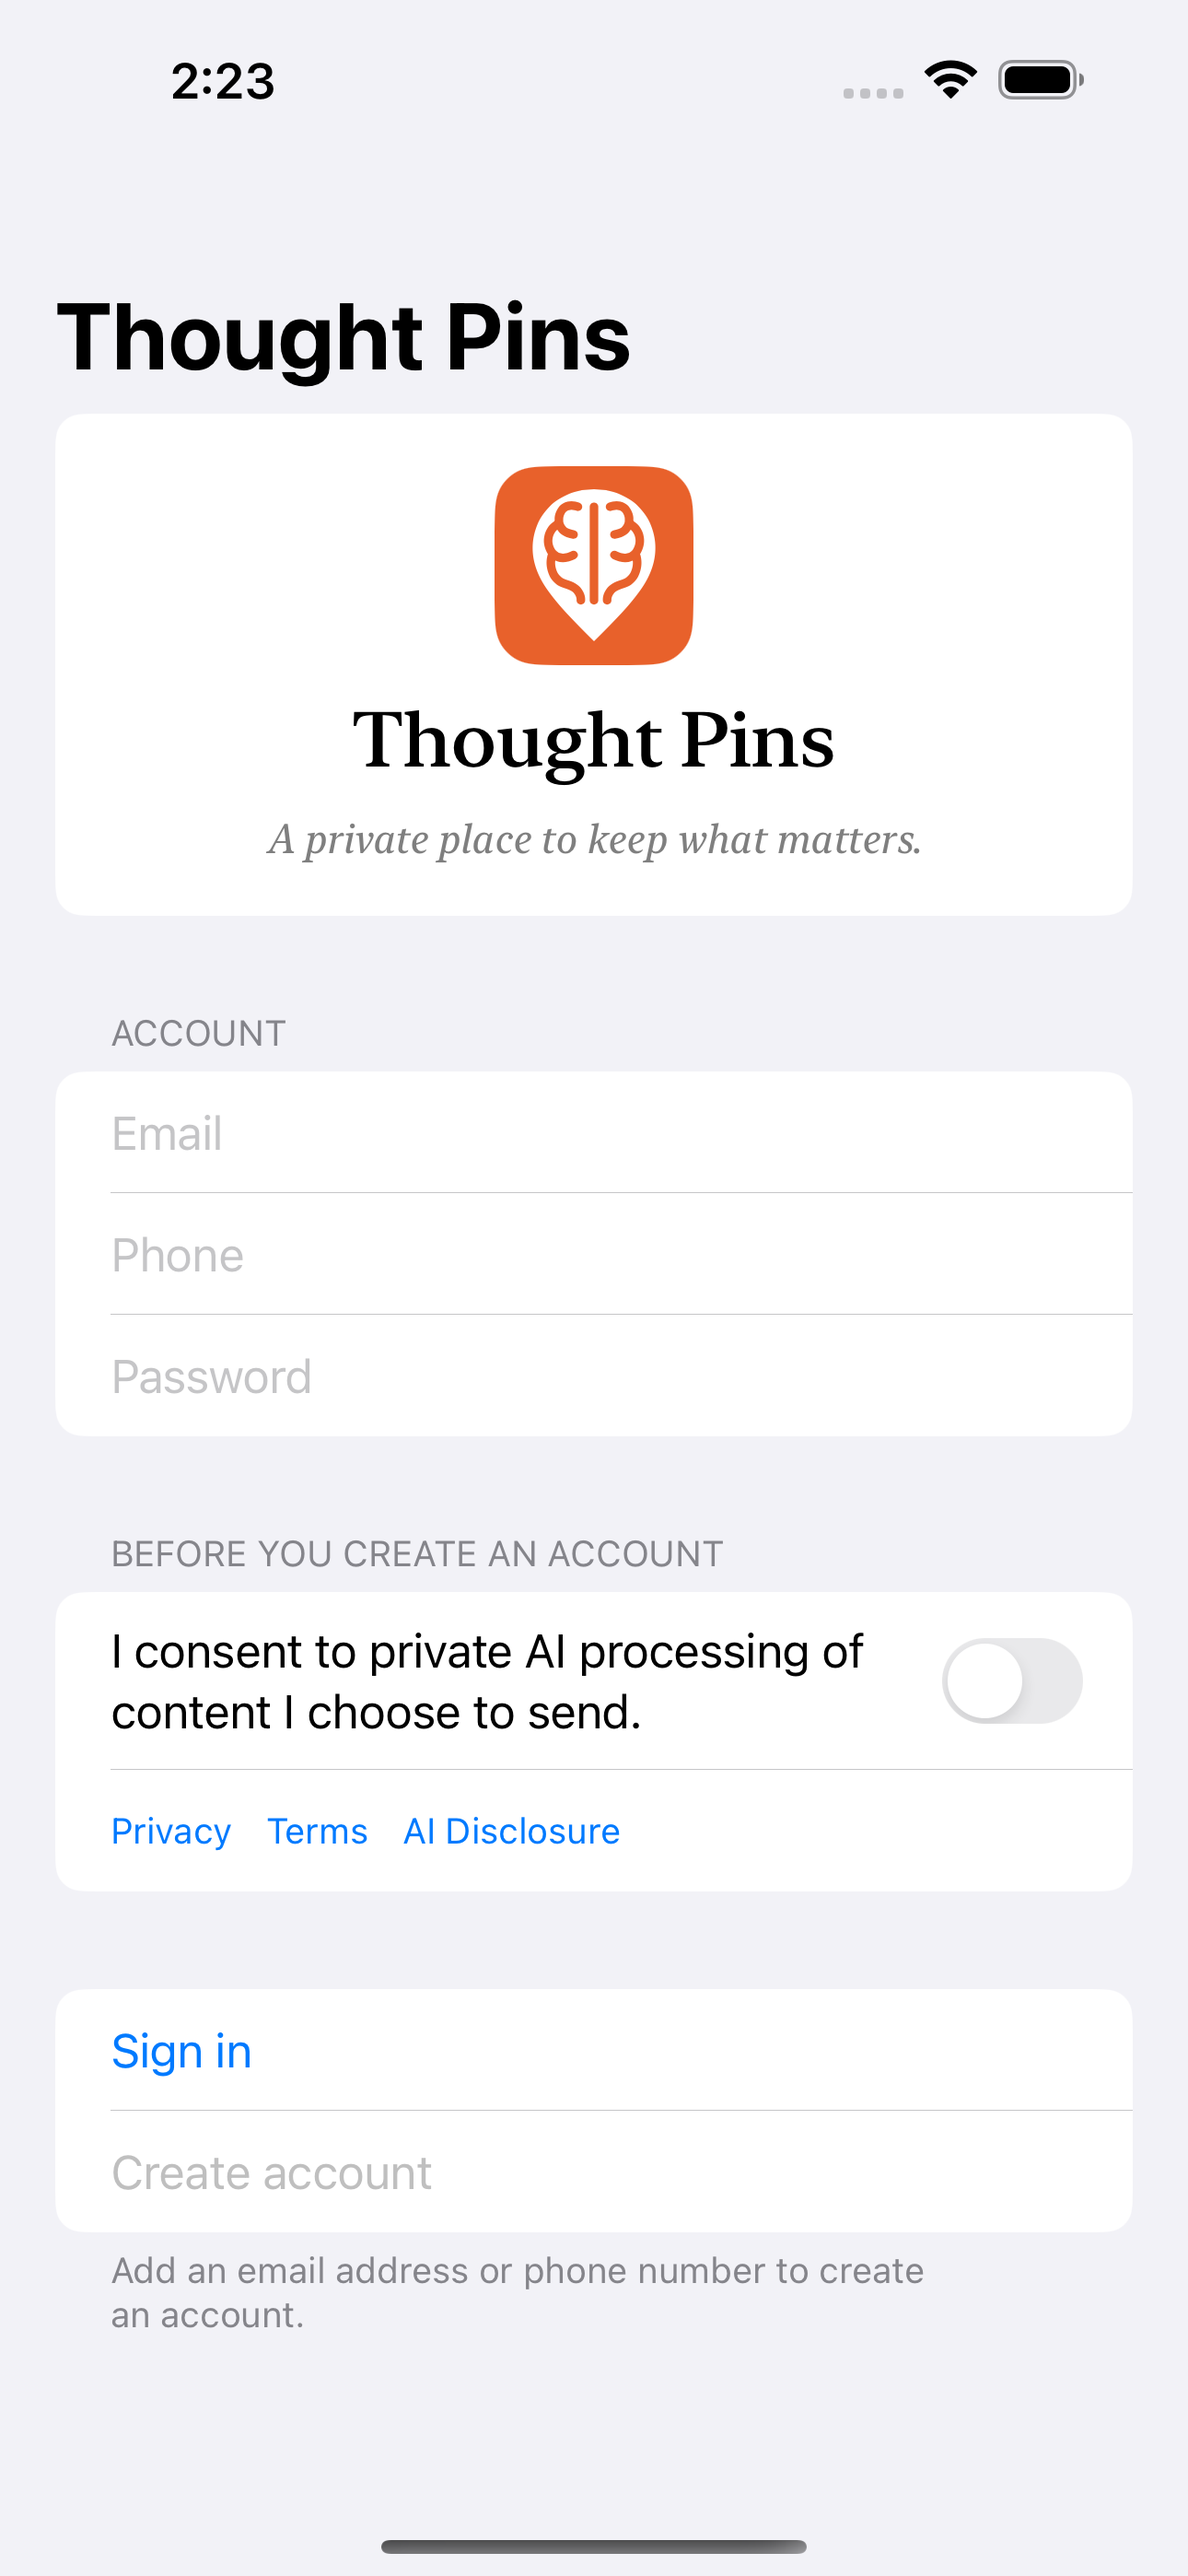
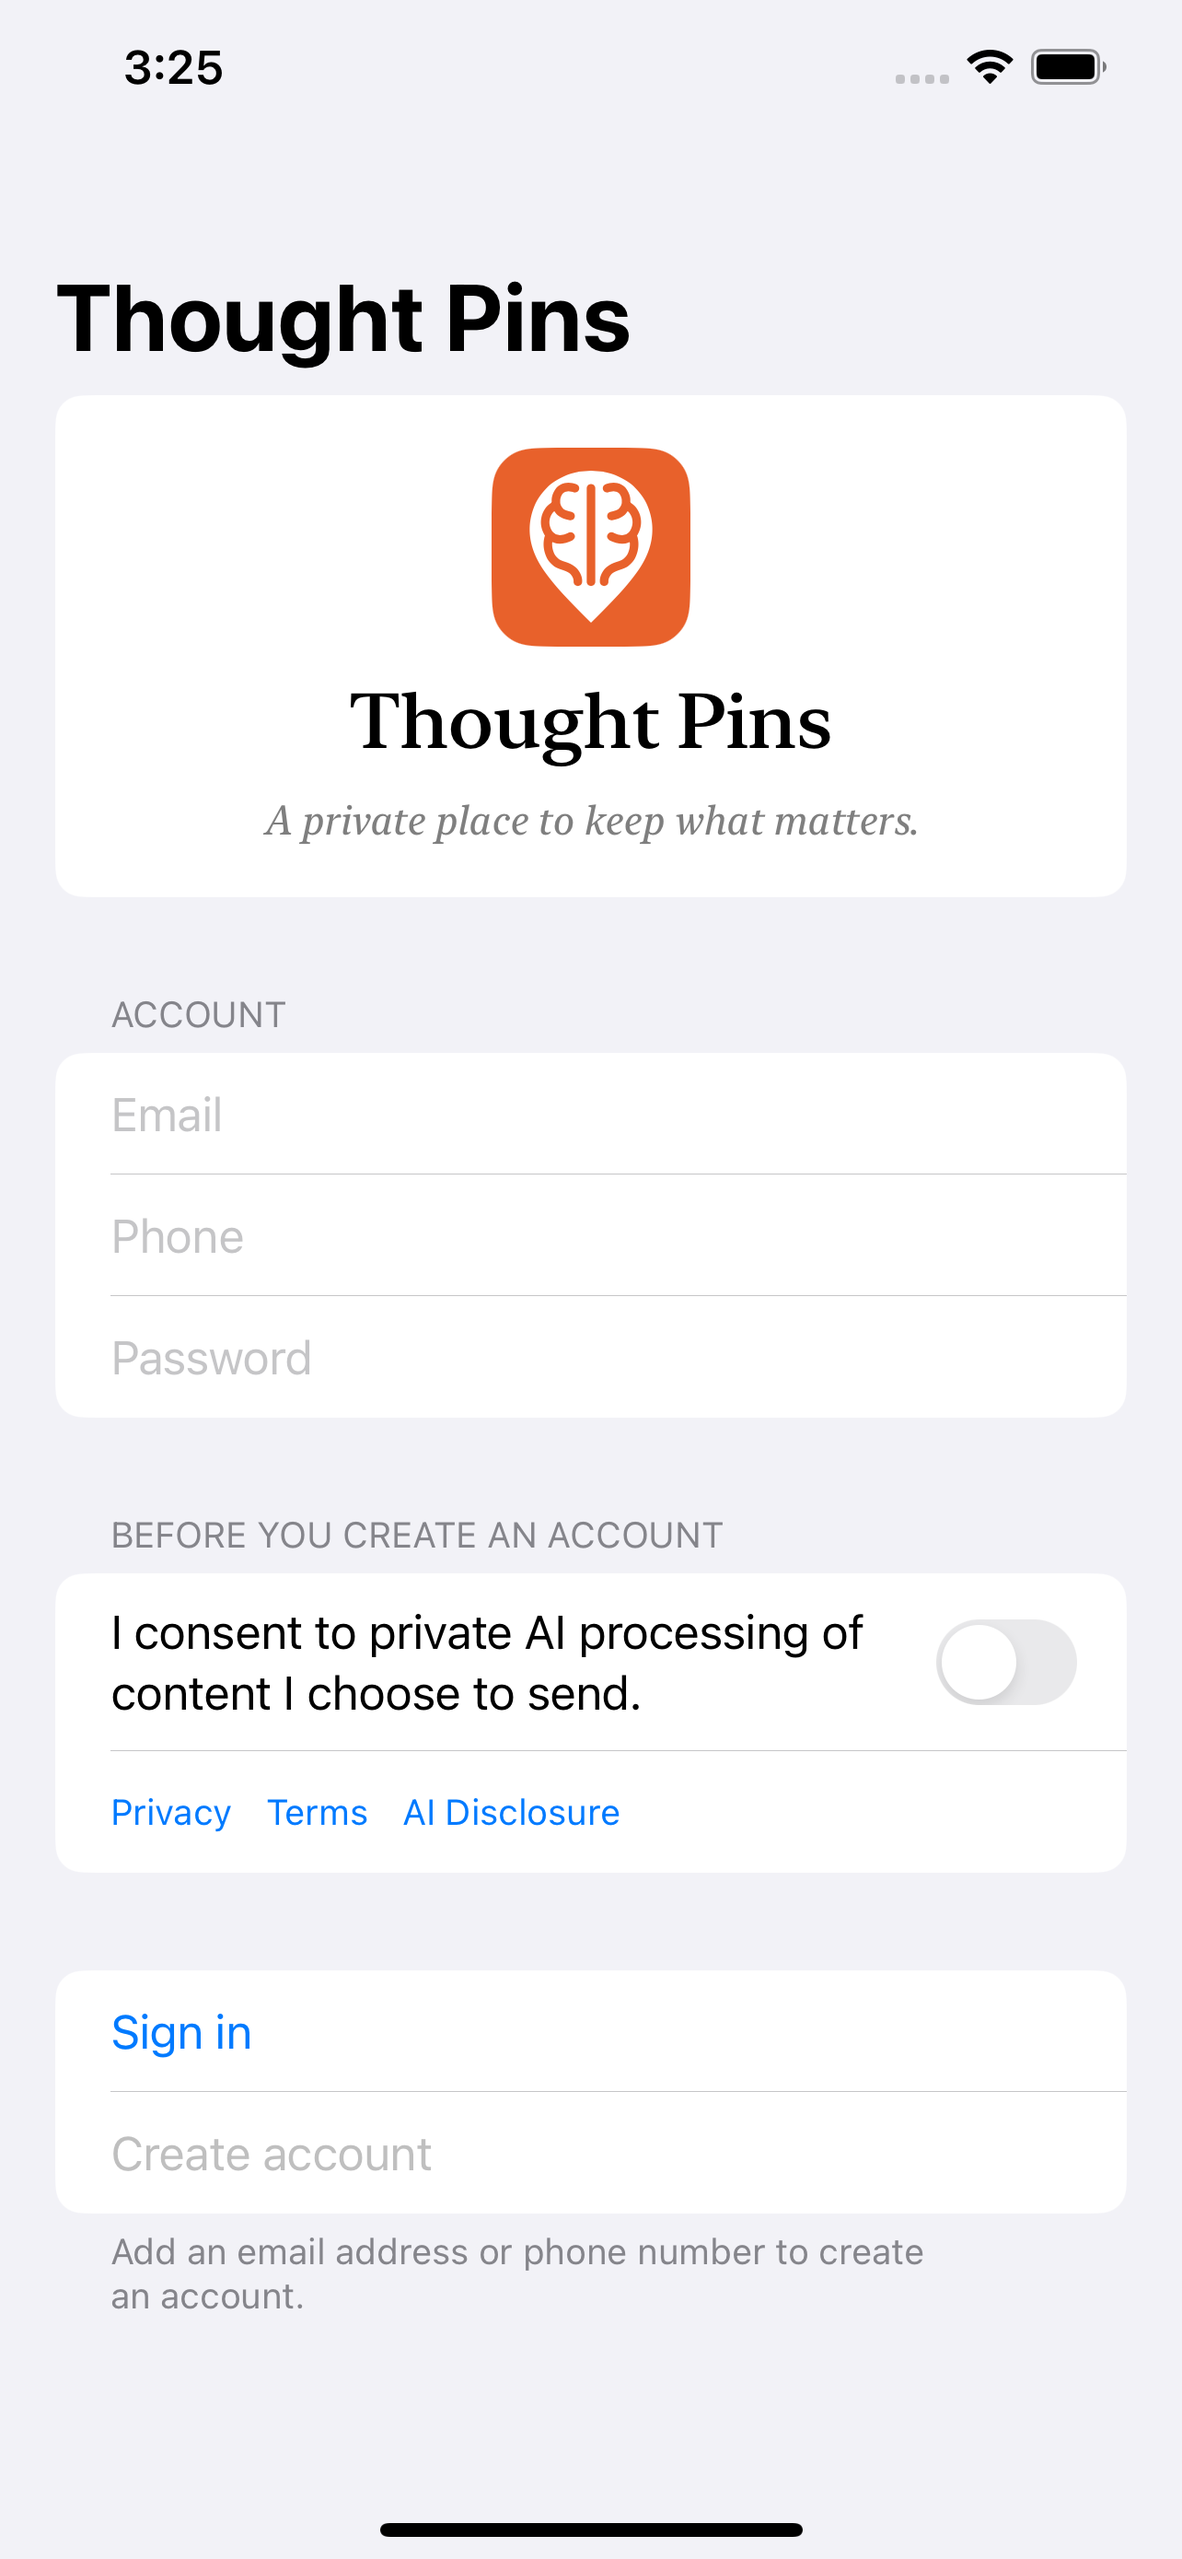
Recapture iPhone screenshots at 6.5 inch, and stop serving a Windows path
**Screenshots.** The iPhone set was 1290 x 2796, the iPhone 15 Pro Max's
native resolution. That is not a listed iPhone size in App Store Connect, so
all six would have been rejected at upload. Recaptured at 1284 x 2778 on an
iPhone 13 Pro Max, which is the 6.5-inch slot and an accepted alternative
when no 6.9-inch set is supplied. Same account, same content, same sign-in
state; the reply now also cites the saved reading, because the account has
one. The README says the set is 6.5-inch by choice rather than 6.9-inch
unavailable. iPad stays at 2048 x 2732, which is still accepted.

**store_urls.web.** Production served `C:/Program Files/Git/app`. The cause is
`WEB_APP_URL`, whose default is `/app`: Git Bash and MSYS rewrite a bare
leading-slash argument into a Windows path before the program sees it, so
setting it from that shell stores the mangled value. It was the only config
value with a leading-slash default, and a sweep of every string in the
production client-config found no other instance.

It was not cosmetic. All three clients read `store_urls[platform]` in their
version policy to build an update link, and the web app's legal screen prints
the value verbatim — so production has been showing a Windows path to people.

Fixed in two places. The API now passes client-facing URLs through
`public_client_url`, which serves `null` rather than a path that goes nowhere,
so every client is covered at once regardless of what the variable says. And
[…]

diff --git a/tests/test_client_url_sanitizing.py b/tests/test_client_url_sanitizing.py
@@ -1,0 +1,71 @@
+"""A Windows shell must not be able to put a filesystem path in front of clients.
+
+Git Bash and MSYS rewrite a bare leading-slash argument into a Windows path
+before the program sees it, so `WEB_APP_URL=/app` set from that shell is stored
+as `C:/Program Files/Git/app`. Production served exactly that value in
+`store_urls.web`, where every client reads it to build an update link and the
+web app prints it verbatim in its legal screen.
+"""
+
+from __future__ import annotations
+
+from fastapi.testclient import TestClient
+
+MANGLED = "C:/Program Files/Git/app"
+
+
+def test_is_shell_mangled_path_recognises_windows_paths():
+    from thoughtpins.config import is_shell_mangled_path
+
+    assert is_shell_mangled_path(MANGLED)
+    assert is_shell_mangled_path("D:\\Git\\app")
+    assert is_shell_mangled_path("\\\\server\\share")
+    # Ordinary values must survive untouched.
+    assert not is_shell_mangled_path("/app")
+    assert not is_shell_mangled_path("https://thoughtpins.com/app")
+    assert not is_shell_mangled_path("")
+
+
+def test_public_client_url_drops_a_path_and_keeps_a_url():
+    from thoughtpins.config import public_client_url
+
+    assert public_client_url(MANGLED) is None
+    assert public_client_url("") is None
+    assert public_client_url(None) is None
+    assert public_client_url("/app") == "/app"
+    assert public_client_url("https://thoughtpins.com/app") == "https://thoughtpins.com/app"
+
+
+def test_client_config_serves_null_rather_than_a_windows_path(isolated_db, monkeypatch):
+    from thoughtpins.api import app
+    from thoughtpins.config import config
+
+    monkeypatch.setattr(config, "WEB_APP_URL", MANGLED)
+    monkeypatch.setattr(config, "IOS_STORE_URL", MANGLED)
+    monkeypatch.setattr(config, "ANDROID_STORE_URL", "https://play.google.com/store/apps/details?id=x")
+
+    payload = TestClient(app).get("/v1/client-config").json()
+
+    store_urls = payload["store_urls"]
+    assert store_urls["web"] is None, "a filesystem path must never reach a client"
+    assert store_urls["ios"] is None
+    # A real URL alongside a bad one is still served.
+    assert store_urls["android"] == "https://play.google.com/store/apps/details?id=x"
+
+
+def test_the_deploy_gate_refuses_a_mangled_client_url(monkeypatch):
+    import scripts.validate_production as validate_production
+    from thoughtpins.config import config
+
+    monkeypatch.setattr(config, "WEB_APP_URL", MANGLED)
+    monkeypatch.setattr(config, "IOS_STORE_URL", "")
+    monkeypatch.setattr(config, "ANDROID_STORE_URL", "")
+
+    problems = validate_production.client_url_problems()
+
+    assert len(problems) == 1
+    assert "WEB_APP_URL" in problems[0]
+    assert "MSYS_NO_PATHCONV" in problems[0], "the message must say how to set it correctly"
+
+    monkeypatch.setattr(config, "WEB_APP_URL", "https://thoughtpins.com/app")
+    assert validate_production.client_url_problems() == []

diff --git a/scripts/validate_production.py b/scripts/validate_production.py
@@ -12,7 +12,7 @@ SRC = ROOT / "src"
 if str(SRC) not in sys.path:
     sys.path.insert(0, str(SRC))
 
-from thoughtpins.config import config
+from thoughtpins.config import config, is_shell_mangled_path
 
 
 def oauth_web_build_problems(
@@ -38,6 +38,35 @@ def oauth_web_build_problems(
     return problems
 
 
+def client_url_problems() -> list[str]:
+    """Catch URLs a Windows shell rewrote into filesystem paths.
+
+    Git Bash and MSYS rewrite a bare leading-slash argument before the program
+    sees it, so `WEB_APP_URL=/app` set from that shell is stored as
+    `C:/Program Files/Git/app`. Production served exactly that, and every client
+    reads store_urls to build its update link -- the web app printed it verbatim
+    in the legal screen.
+
+    This is checked here rather than in Config.validate_startup on purpose:
+    init_db raises on a startup problem, and refusing to boot the API over a
+    wrong store link would turn a bad link into an outage. Blocking the deploy
+    is the proportionate place to stop it.
+    """
+    problems: list[str] = []
+    for name, value in (
+        ("WEB_APP_URL", config.WEB_APP_URL),
+        ("IOS_STORE_URL", config.IOS_STORE_URL),
+        ("ANDROID_STORE_URL", config.ANDROID_STORE_URL),
+    ):
+        if is_shell_mangled_path(value):
+            problems.append(
+                f"{name} is a filesystem path, not a URL: {value!r}. "
+                "A leading-slash value set from Git Bash on Windows is rewritten before it "
+                "reaches the service. Re-set it with MSYS_NO_PATHCONV=1, or use a full https:// URL."
+            )
+    return problems
+
+
 def main() -> int:
     problems = config.validate_startup()
 
@@ -59,6 +88,7 @@ def main() -> int:
             config.APPLE_OAUTH_CLIENT_IDS,
         )
     )
+    problems.extend(client_url_problems())
     if problems:
         print("Production validation failed:")
         for problem in problems:

diff --git a/src/thoughtpins/config_urls.py b/src/thoughtpins/config_urls.py
@@ -1,0 +1,41 @@
+"""Client-facing URL hygiene for configuration values.
+
+Separated from `config.py` because that module is at its size budget, and
+because this is one self-contained question: is a configured value fit to hand
+to a client?
+"""
+
+from __future__ import annotations
+
+import re
+
+# A drive-letter path (C:/..., D:\...) or a UNC share (\\server\share).
+_SHELL_MANGLED_PATH = re.compile(r"^[A-Za-z]:[\\/]|^\\\\")
+
+
+def is_shell_mangled_path(value: str) -> bool:
+    """Whether a configured URL was rewritten into a filesystem path by a shell.
+
+    Git Bash and MSYS on Windows rewrite a bare leading-slash argument into a
+    Windows path before the program ever sees it, so setting `WEB_APP_URL=/app`
+    from that shell stores `C:/Program Files/Git/app`. Production served exactly
+    that: it reaches every client through `/v1/client-config`, where all three
+    apps read `store_urls` to build an update link, and the web app prints it
+    verbatim in its legal screen.
+
+    Set such values with `MSYS_NO_PATHCONV=1`, or give a full https:// URL.
+    """
+    return bool(_SHELL_MANGLED_PATH.match((value or "").strip()))
+
+
+def public_client_url(value: str | None) -> str | None:
+    """A URL fit to hand a client, or None when the configured value is not one.
+
+    Serving nothing is better than serving a path that goes nowhere: a client
+    given None hides its update link, while one given a Windows path shows it
+    to the person.
+    """
+    candidate = (value or "").strip()
+    if not candidate or is_shell_mangled_path(candidate):
+        return None
+    return candidate

diff --git a/src/thoughtpins/api_routes/metadata.py b/src/thoughtpins/api_routes/metadata.py
@@ -11,7 +11,7 @@ from fastapi.concurrency import run_in_threadpool
 from fastapi.responses import JSONResponse, PlainTextResponse
 from pydantic import BaseModel
 
-from thoughtpins.config import config
+from thoughtpins.config import config, public_client_url
 from thoughtpins.runtime_health import build_deep_health_checks, build_readiness_checks, deep_health_status
 
 ERROR_CODE_DOCS: dict[str, str] = {
@@ -158,10 +158,14 @@ def create_metadata_router(
                 "android": config.RECOMMENDED_ANDROID_VERSION,
                 "web": config.RECOMMENDED_WEB_VERSION,
             },
+            # public_client_url, not `or None`: a value a Windows shell rewrote
+            # into a filesystem path is served to every client, used to build
+            # update links, and printed verbatim in the web app's legal screen.
+            # Serving nothing is better than serving a path that goes nowhere.
             store_urls={
-                "ios": config.IOS_STORE_URL or None,
-                "android": config.ANDROID_STORE_URL or None,
-                "web": config.WEB_APP_URL or None,
+                "ios": public_client_url(config.IOS_STORE_URL),
+                "android": public_client_url(config.ANDROID_STORE_URL),
+                "web": public_client_url(config.WEB_APP_URL),
             },
             maintenance_mode=config.MAINTENANCE_MODE,
             maintenance_message=config.MAINTENANCE_MESSAGE if config.MAINTENANCE_MODE else None,

diff --git a/src/thoughtpins/config.py b/src/thoughtpins/config.py
@@ -10,6 +10,7 @@ from urllib.parse import urlparse
 
 from dotenv import load_dotenv
 
+from thoughtpins.config_urls import is_shell_mangled_path, public_client_url  # noqa: F401
 from thoughtpins.config_validation import graph_backend_problems, llm_pricing_problems
 
 load_dotenv()
@@ -29,7 +30,14 @@ PROJECT_ROOT = Path(__file__).resolve().parent.parent.parent
 
 # Re-exported: validation policy lives in config_validation, but callers and
 # tests have always reached it through this module.
-__all__ = ["Config", "config", "graph_backend_problems", "llm_pricing_problems"]
+__all__ = [
+    "Config",
+    "config",
+    "graph_backend_problems",
+    "is_shell_mangled_path",
+    "llm_pricing_problems",
+    "public_client_url",
+]
 
 
 def _llm_provider() -> str:

diff --git a/apple-submission/screenshots/README.md b/apple-submission/screenshots/README.md
@@ -10,11 +10,11 @@ asks Chat a question, waits for the real answer, and walks the tabs.
 
 ## What is here
 
-| Folder | Device | Pixels |
-|---|---|---|
-| `iphone-1290x2796/` | iPhone 15 Pro Max, iOS 17.2 | 1290 × 2796 |
-| `ipad-2048x2732/` | iPad Pro 12.9-inch (6th generation), iOS 17.2 | 2048 × 2732 |
-| `evidence/` | Not for upload — sign-in and consent screens, kept as proof of the review path | 1290 × 2796 |
+| Folder | Device | Pixels | Slot |
+|---|---|---|---|
+| `iphone-1284x2778/` | iPhone 13 Pro Max, iOS 17.2 | 1284 × 2778 | iPhone 6.5-inch |
+| `ipad-2048x2732/` | iPad Pro 12.9-inch (6th generation), iOS 17.2 | 2048 × 2732 | iPad 12.9-inch |
+| `evidence/` | Not for upload — the sign-in screen and the AI-processing consent screen, kept as proof of the review path | — | — |
 
 Six shots per device, in upload order:
 
@@ -27,30 +27,26 @@ Six shots per device, in upload order:
 5. `06-pins` — saved readings
 6. `07-account` — export and delete, in plain sight
 
-## Sizes: what Apple requires, and what these are
+## Sizes: which slot these fill, and why
 
 Apple requires **one iPhone set**, and — because this target is universal
-(`TARGETED_DEVICE_FAMILY: "1,2"`) — **one iPad set**. Sets for smaller display
-classes are optional; App Store Connect scales the largest set down for the
-rest.
+(`TARGETED_DEVICE_FAMILY: "1,2"`) — **one iPad set**. Smaller display classes
+are optional; App Store Connect scales the supplied set down for the rest.
 
-What is here is the largest of each that this toolchain can produce:
+**The iPhone set is 6.5-inch by choice, not because 6.9-inch was unavailable.**
+6.5-inch (1284 × 2778) is an accepted alternative when no 6.9-inch set is
+supplied, and it is produced natively by the iPhone 13 Pro Max simulator, which
+this Xcode has. An earlier set was captured at 1290 × 2796; that is the iPhone
+15 Pro Max's native resolution but is **not a listed iPhone size in App Store
+Connect**, so it would have been rejected at upload. It has been replaced.
 
-- **1290 × 2796** is the native resolution of the iPhone 15 Pro Max (6.7-inch),
-  and has been the standard accepted upload for the top iPhone slot.
-- **2048 × 2732** is the native resolution of the iPad Pro 12.9-inch, and is
-  the long-standing required iPad size.
+The iPad set is 2048 × 2732, the iPad Pro 12.9-inch native resolution, which is
+still an accepted iPad size.
 
-**Confirm the slot in App Store Connect before uploading, and do not take the
-above as final.** Apple added a 6.9-inch iPhone class (1320 × 2868, iPhone 16
-Pro Max) and a 13-inch iPad class (2064 × 2752), and if App Store Connect
-insists on those exact pixel dimensions rather than accepting these, they
-cannot be produced here: those simulators need a newer Xcode than macOS 13
-can install. That is a parked item, not a fixed one — see the outstanding list
-in `MAC_START_HERE.md`.
-
-Nothing about the layout would change, only the canvas: the same six screens
-at a larger frame.
+If you later want the 6.9-inch (1320 × 2868) or 13-inch (2064 × 2752) slots
+filled instead, those need an iPhone 16 Pro Max or iPad Pro 13-inch simulator,
+which need a newer Xcode than macOS 13 can install. Nothing about the layout
+would change, only the canvas — the same six screens at a larger frame.
 
 ## Rules these already satisfy
 

diff --git a/apple-submission/REVIEW_NOTES.md b/apple-submission/REVIEW_NOTES.md
@@ -185,10 +185,18 @@ wall, and finds no explanation files a 2.1 rejection.
 - [ ] Confirm the backend is not in maintenance mode for the whole window.
 - [ ] Re-run `StoreScreenshotTests` if the UI changes, so the screenshots match
       the build being reviewed.
-- [ ] Check `store_urls.web` in `/v1/client-config`. It currently reads
-      `C:/Program Files/Git/app`, which is a Windows path that escaped into
-      production config. Nothing in the iOS app follows it today, but it is
-      served to every client and should not say that.
+- [ ] **Fix `WEB_APP_URL` on Railway.** It holds
+      `C:/Program Files/Git/app` — Git Bash rewrote a leading-slash value before
+      it reached the service. The API no longer serves it (a Windows path is
+      now sent as `null`, so no client shows it), and
+      `scripts/validate_production.py` blocks a deploy while it is wrong, but
+      the variable itself is still wrong:
+
+      ```bash
+      MSYS_NO_PATHCONV=1 railway variables --service api --set "WEB_APP_URL=/app"
+      # or set it to the full URL and avoid the problem entirely:
+      railway variables --service api --set "WEB_APP_URL=https://thoughtpins.com/app"
+      ```
 
 ### Things deliberately not claimed
 
